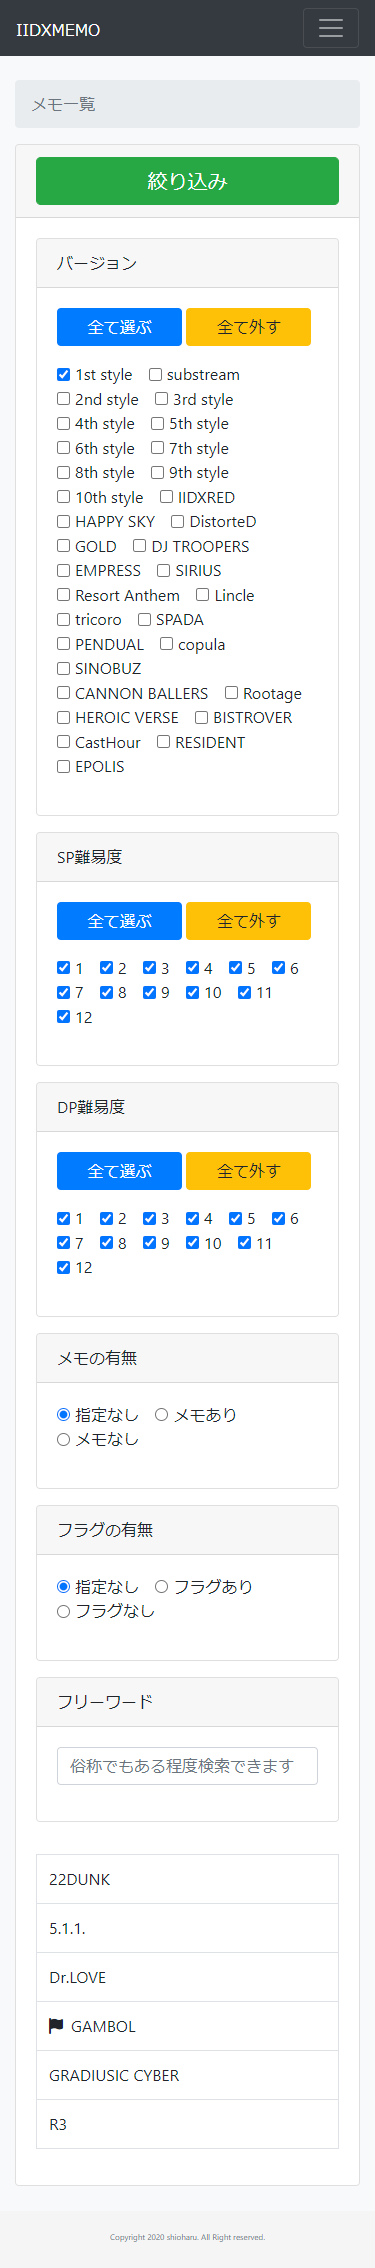
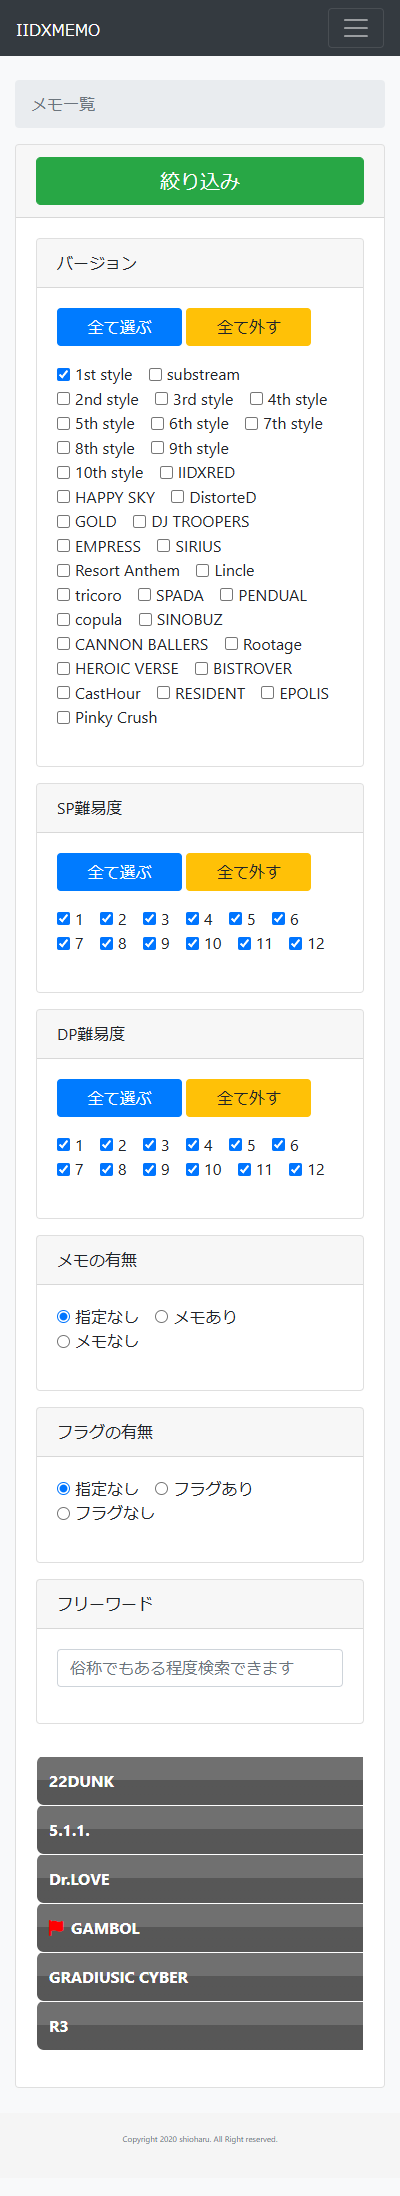
画像を新デザインに差し替え

diff --git a/resources/views/user/home/index.blade.php b/resources/views/user/home/index.blade.php
@@ -36,8 +36,8 @@
                 <div class="card">
                     <div class="card-header bg-light h5"><h3>メモ一覧</h3></div>
                     <div class="card-body">
-                        <a href="{{asset('/images/home/main1.png')}}?20231123" target="_blank" rel="noopener noreferrer">
-                            <img src="{{asset('/images/home/thumb1.png')}}?20231123" class="img-fluid img-thumbnail" alt="メモ一覧参考画像">
+                        <a href="{{asset('/images/home/main1.png')}}?20241128" target="_blank" rel="noopener noreferrer">
+                            <img src="{{asset('/images/home/thumb1.png')}}?20241128" class="img-fluid img-thumbnail" alt="メモ一覧参考画像">
                         </a>
                         <p class="card-text mt-4">AC収録楽曲を一覧できます。</p>
                     </div>
@@ -45,7 +45,7 @@
                 <div class="card">
                     <div class="card-header bg-light h5"><h3>絞り込み</h3></div>
                     <div class="card-body">
-                        <a href="{{asset('/images/home/main2.png')}}?20231123" target="_blank" rel="noopener noreferrer">
+                        <a href="{{asset('/images/home/main2.png')}}?20241128" target="_blank" rel="noopener noreferrer">
                             <img src="{{asset('/images/home/thumb2.png')}}?20231123" class="img-fluid img-thumbnail" alt="楽曲絞り込み参考画像">
                         </a>
                         <p class="card-text mt-4">楽曲をバージョン、SP・DP難易度、メモの有無、フラグの有無、フリーワードで絞り込みできます。</p>
@@ -65,8 +65,8 @@
                 <div class="card">
                     <div class="card-header bg-light h5"><h4>フリーワード検索例</h4></div>
                     <div class="card-body">
-                        <a href="{{asset('/images/home/main4.png')}}?20231123" target="_blank" rel="noopener noreferrer">
-                            <img src="{{asset('/images/home/thumb4.png')}}?20231123" class="img-fluid img-thumbnail" alt="フリーワード検索例参考画像">
+                        <a href="{{asset('/images/home/main4.png')}}?20241128" target="_blank" rel="noopener noreferrer">
+                            <img src="{{asset('/images/home/thumb4.png')}}?20241128" class="img-fluid img-thumbnail" alt="フリーワード検索例参考画像">
                         </a>
                         <p class="card-text mt-4">俗称でもある程度検索できます。</p>
                     </div>

diff --git a/resources/views/user/layouts/index.blade.php b/resources/views/user/layouts/index.blade.php
@@ -11,7 +11,7 @@
     <meta property="og:description" content="beatmania IIDXのACに収録されている楽曲のメモを気軽に行えるサービスです。クリアできそうな曲、好きな曲などなど、様々な用途でメモをしたくなったときにご利用ください。">
     <meta property="og:url" content="https://iidxmemo.official.jp/public/">
     <meta property="og:site_name" content="IIDXMEMO">
-    <meta property="og:image" content="{{asset('/images/home/ogp.jpg')}}?20231123">
+    <meta property="og:image" content="{{asset('/images/home/ogp.jpg')}}?20241128">
     <link rel="icon" href="{{asset('favicon.ico')}}">
     <link rel="stylesheet" href="https://stackpath.bootstrapcdn.com/bootstrap/4.5.1/css/bootstrap.min.css" integrity="sha384-VCmXjywReHh4PwowAiWNagnWcLhlEJLA5buUprzK8rxFgeH0kww/aWY76TfkUoSX" crossorigin="anonymous">
     <link href="{{asset('css/common.css')}}" rel="stylesheet" media="screen">
